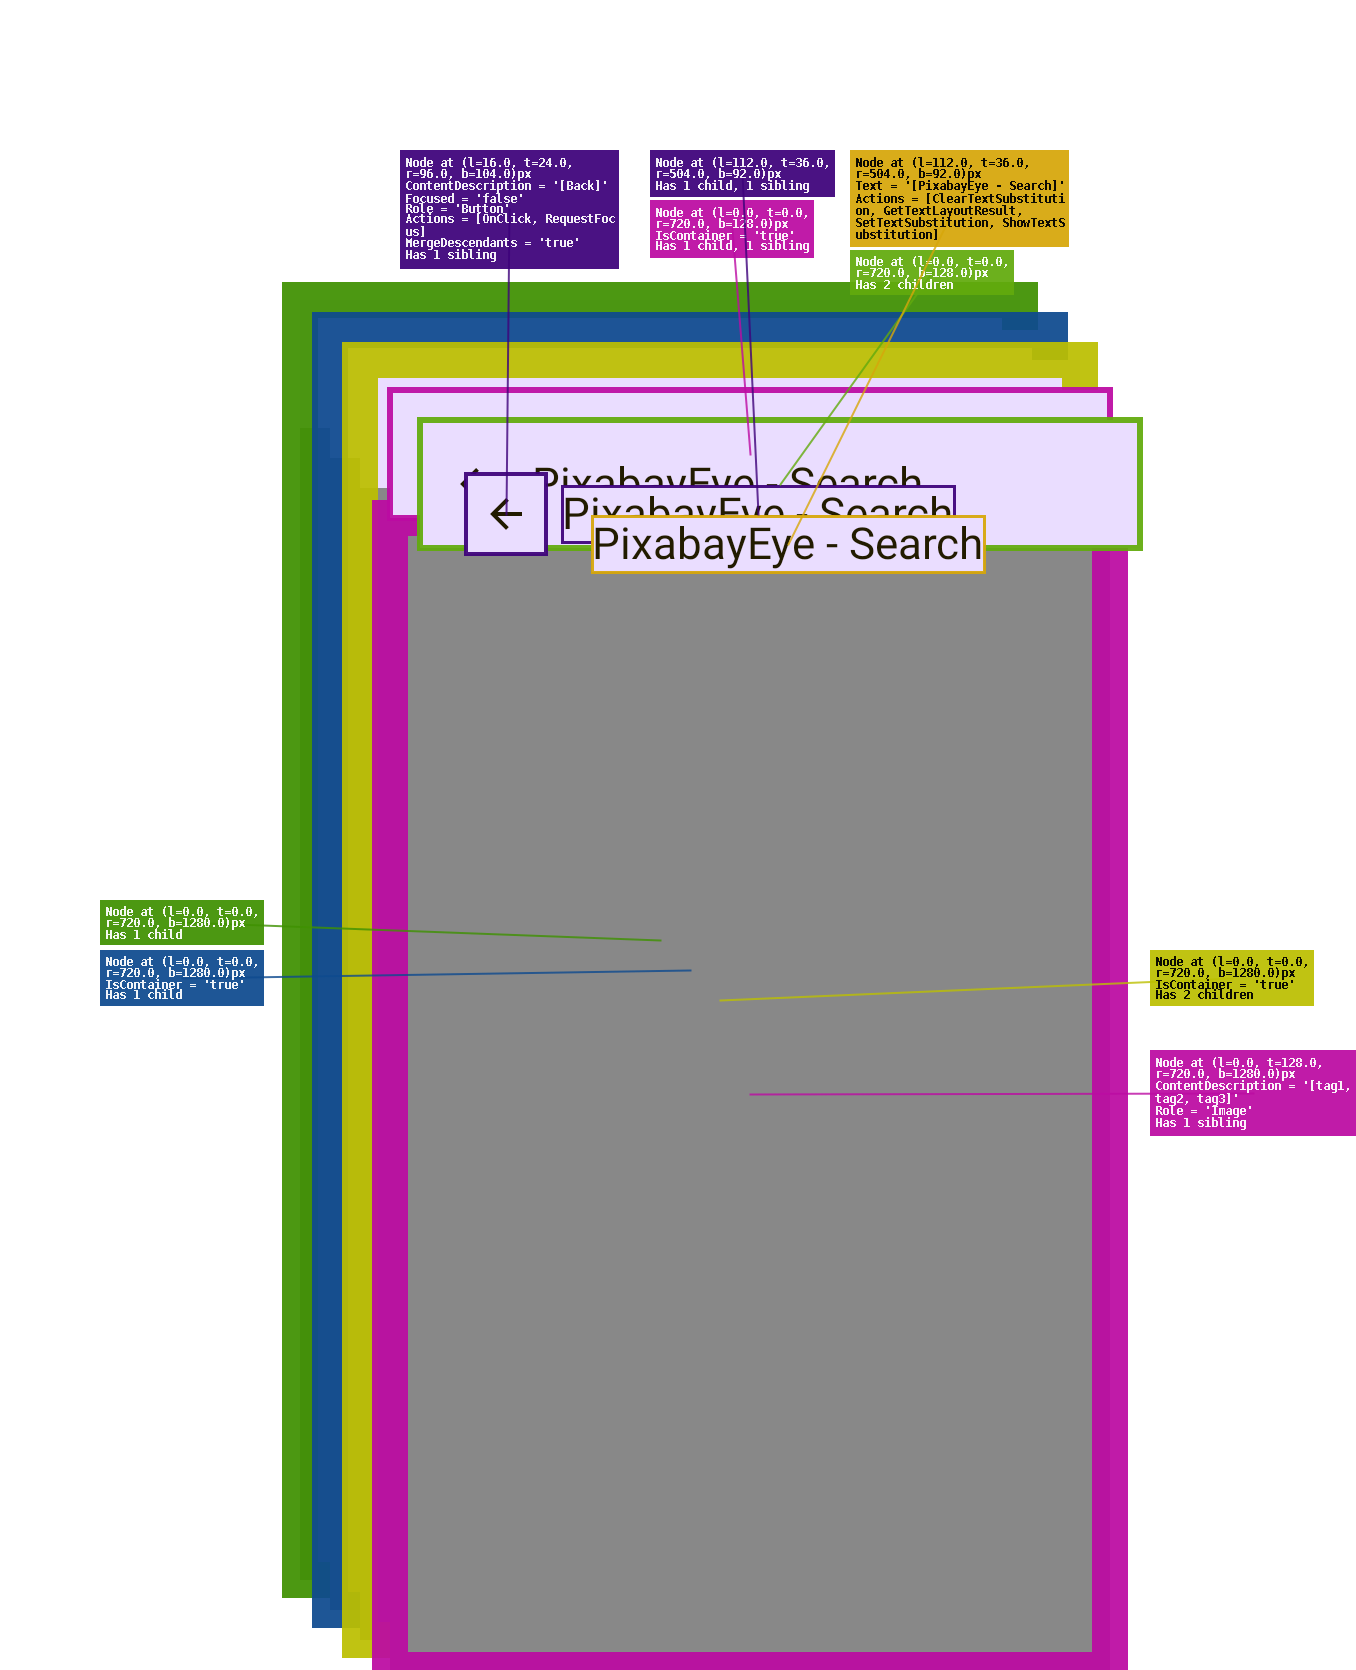
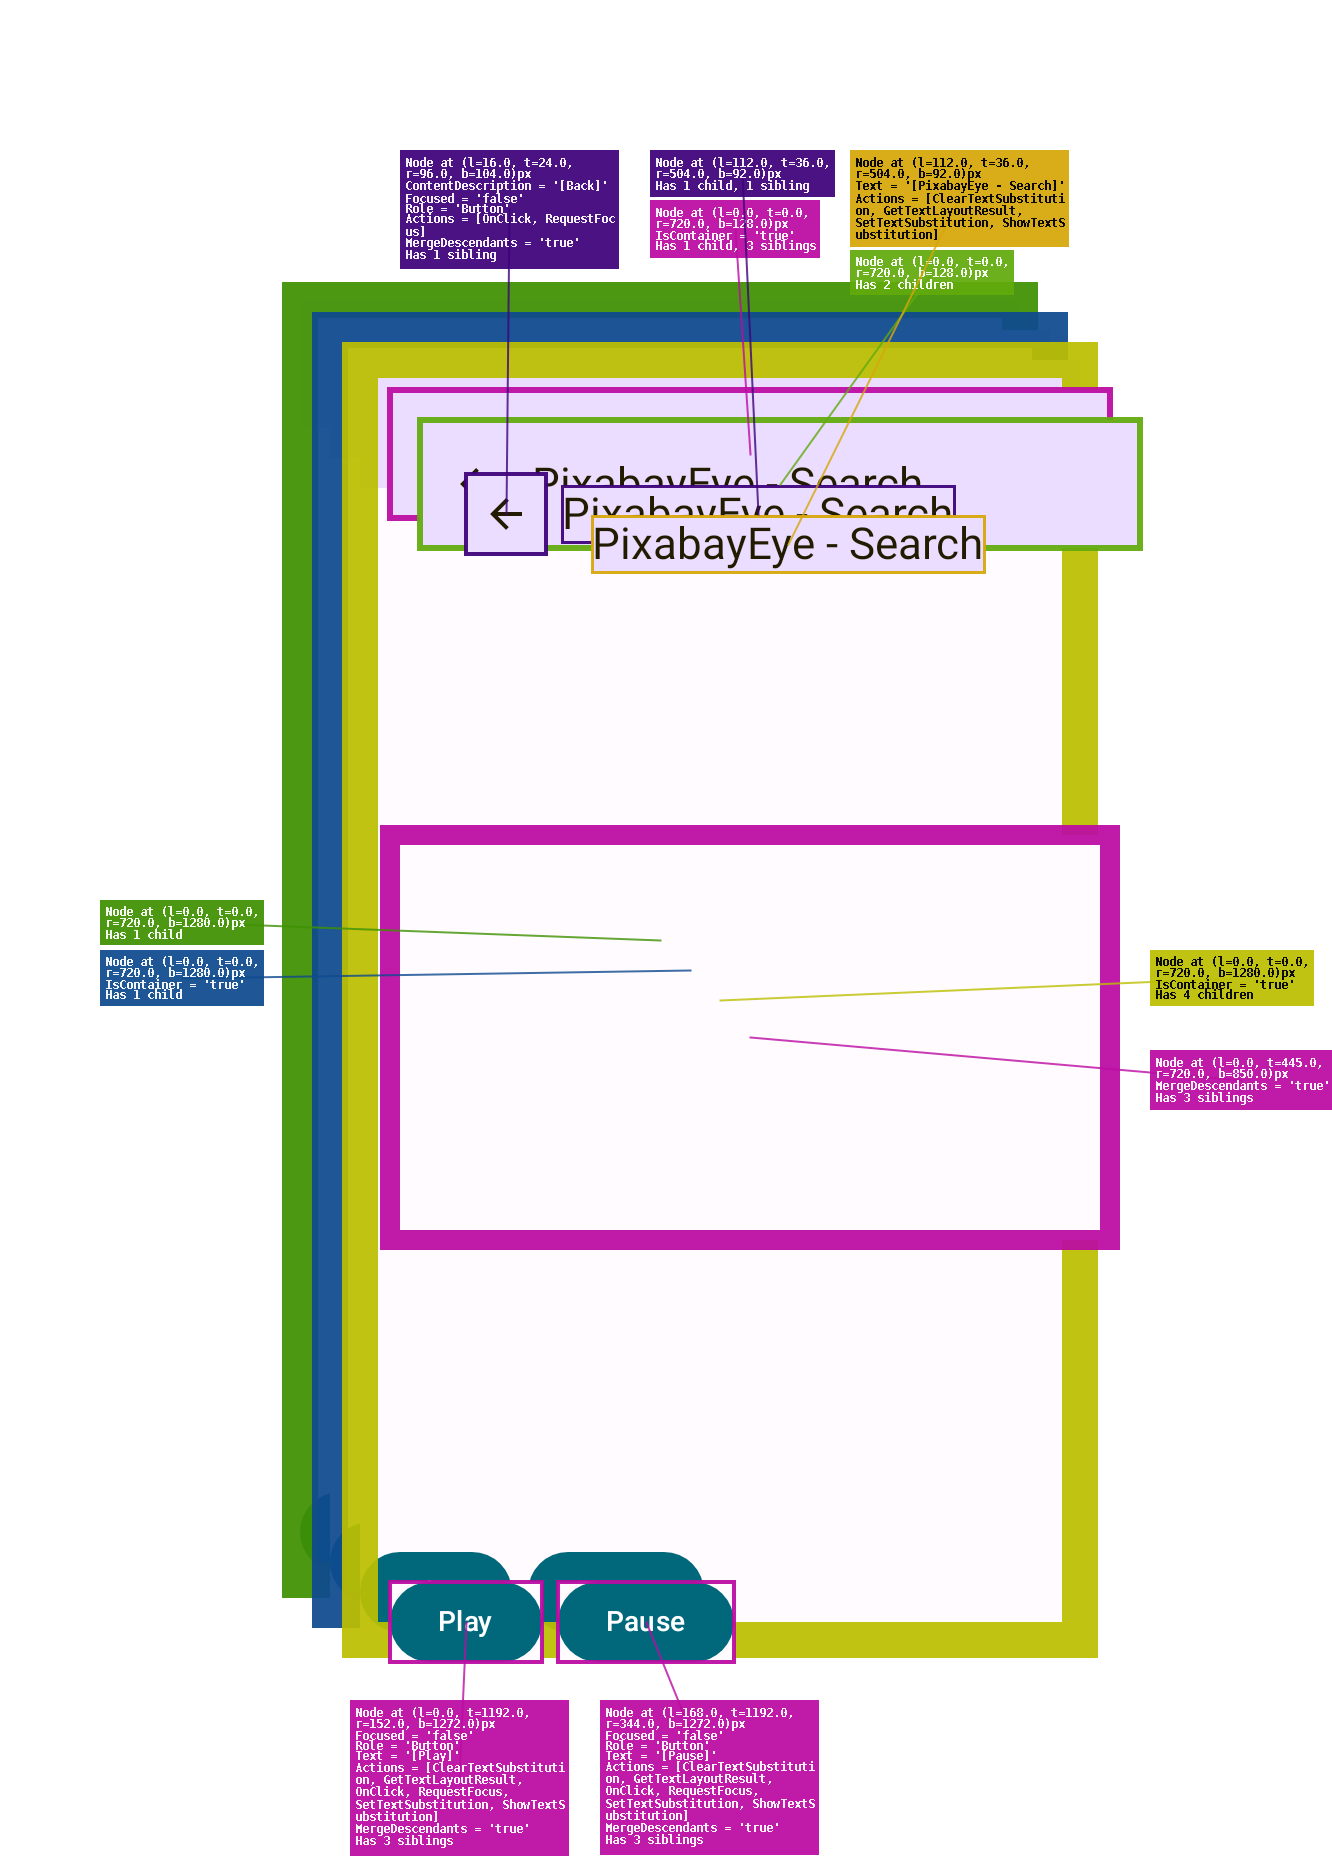
Added video player

diff --git a/ui/uiVideoDetails/src/commonMain/kotlin/siarhei/luskanau/pixabayeye/ui/video/details/VideoDetailsScreen.kt b/ui/uiVideoDetails/src/commonMain/kotlin/siarhei/luskanau/pixabayeye/ui/video/details/VideoDetailsScreen.kt
@@ -2,11 +2,15 @@ package siarhei.luskanau.pixabayeye.ui.video.details
 
 import androidx.compose.foundation.layout.Box
 import androidx.compose.foundation.layout.Column
+import androidx.compose.foundation.layout.Row
+import androidx.compose.foundation.layout.Spacer
 import androidx.compose.foundation.layout.fillMaxHeight
 import androidx.compose.foundation.layout.fillMaxSize
 import androidx.compose.foundation.layout.fillMaxWidth
+import androidx.compose.foundation.layout.height
 import androidx.compose.foundation.layout.padding
 import androidx.compose.foundation.layout.width
+import androidx.compose.material3.Button
 import androidx.compose.material3.CircularProgressIndicator
 import androidx.compose.material3.MaterialTheme
 import androidx.compose.material3.Scaffold
@@ -16,15 +20,11 @@ import androidx.compose.runtime.LaunchedEffect
 import androidx.compose.runtime.collectAsState
 import androidx.compose.ui.Alignment
 import androidx.compose.ui.Modifier
-import androidx.compose.ui.graphics.Color
-import androidx.compose.ui.graphics.painter.ColorPainter
-import androidx.compose.ui.layout.ContentScale
 import androidx.compose.ui.text.style.TextAlign
 import androidx.compose.ui.unit.dp
 import androidx.lifecycle.viewmodel.compose.viewModel
-import coil3.compose.AsyncImage
-import coil3.compose.LocalPlatformContext
-import coil3.request.ImageRequest
+import io.github.kdroidfilter.composemediaplayer.VideoPlayerSurface
+import io.github.kdroidfilter.composemediaplayer.rememberVideoPlayerState
 import kotlin.collections.orEmpty
 import kotlinx.coroutines.flow.MutableStateFlow
 import kotlinx.coroutines.flow.StateFlow
@@ -80,18 +80,31 @@ internal fun VideoDetailsContent(
                 }
 
                 is VideoDetailsViewState.Success -> {
-                    val viewModel = result.hitModel.videosModel.orEmpty().values.first()
-                    AsyncImage(
-                        model = ImageRequest.Builder(LocalPlatformContext.current)
-                            .data(viewModel.thumbnail)
-                            .build(),
-                        contentDescription = result.hitModel.tags,
-                        placeholder = ColorPainter(Color.Gray),
-                        error = ColorPainter(Color.Red),
-                        // onSuccess = { placeholder = it.result.memoryCacheKey },
-                        contentScale = ContentScale.Fit,
-                        modifier = Modifier.fillMaxSize()
-                    )
+                    val videoModel = result.hitModel.videosModel.orEmpty().values.first()
+                    val playerState = rememberVideoPlayerState()
+                    LaunchedEffect(videoModel.url) {
+                        playerState.openUri(videoModel.url)
+                    }
+                    Column(modifier = Modifier.fillMaxSize()) {
+                        Box(
+                            modifier = Modifier.weight(1f).fillMaxWidth(),
+                            contentAlignment = Alignment.Center
+                        ) {
+                            VideoPlayerSurface(
+                                playerState = playerState,
+                                modifier = Modifier.fillMaxSize()
+                            )
+                        }
+                        Spacer(modifier = Modifier.height(8.dp))
+                        Row(
+                            modifier = Modifier.fillMaxWidth(),
+                            verticalAlignment = Alignment.CenterVertically
+                        ) {
+                            Button(onClick = { playerState.play() }) { Text("Play") }
+                            Spacer(modifier = Modifier.width(8.dp))
+                            Button(onClick = { playerState.pause() }) { Text("Pause") }
+                        }
+                    }
                 }
 
                 is VideoDetailsViewState.Error -> Text(

diff --git a/ui/uiVideoDetails/src/androidUnitTest/kotlin/siarhei/luskanau/pixabayeye/ui/video/details/VideoDetailsScreenTest.kt b/ui/uiVideoDetails/src/androidUnitTest/kotlin/siarhei/luskanau/pixabayeye/ui/video/details/VideoDetailsScreenTest.kt
@@ -2,7 +2,9 @@ package siarhei.luskanau.pixabayeye.ui.video.details
 
 import androidx.compose.ui.test.junit4.createComposeRule
 import androidx.compose.ui.test.onRoot
+import androidx.test.core.app.ApplicationProvider
 import com.github.takahirom.roborazzi.RobolectricDeviceQualifiers
+import com.kdroid.androidcontextprovider.ContextProvider
 import kotlin.test.BeforeTest
 import kotlin.test.Test
 import org.junit.Rule
@@ -23,6 +25,7 @@ class VideoDetailsScreenTest : BaseScreenshotTest(group = "video_details") {
     @BeforeTest
     fun setup() {
         setupAndroidContextProvider()
+        ContextProvider.initialize(ApplicationProvider.getApplicationContext())
     }
 
     @Test
